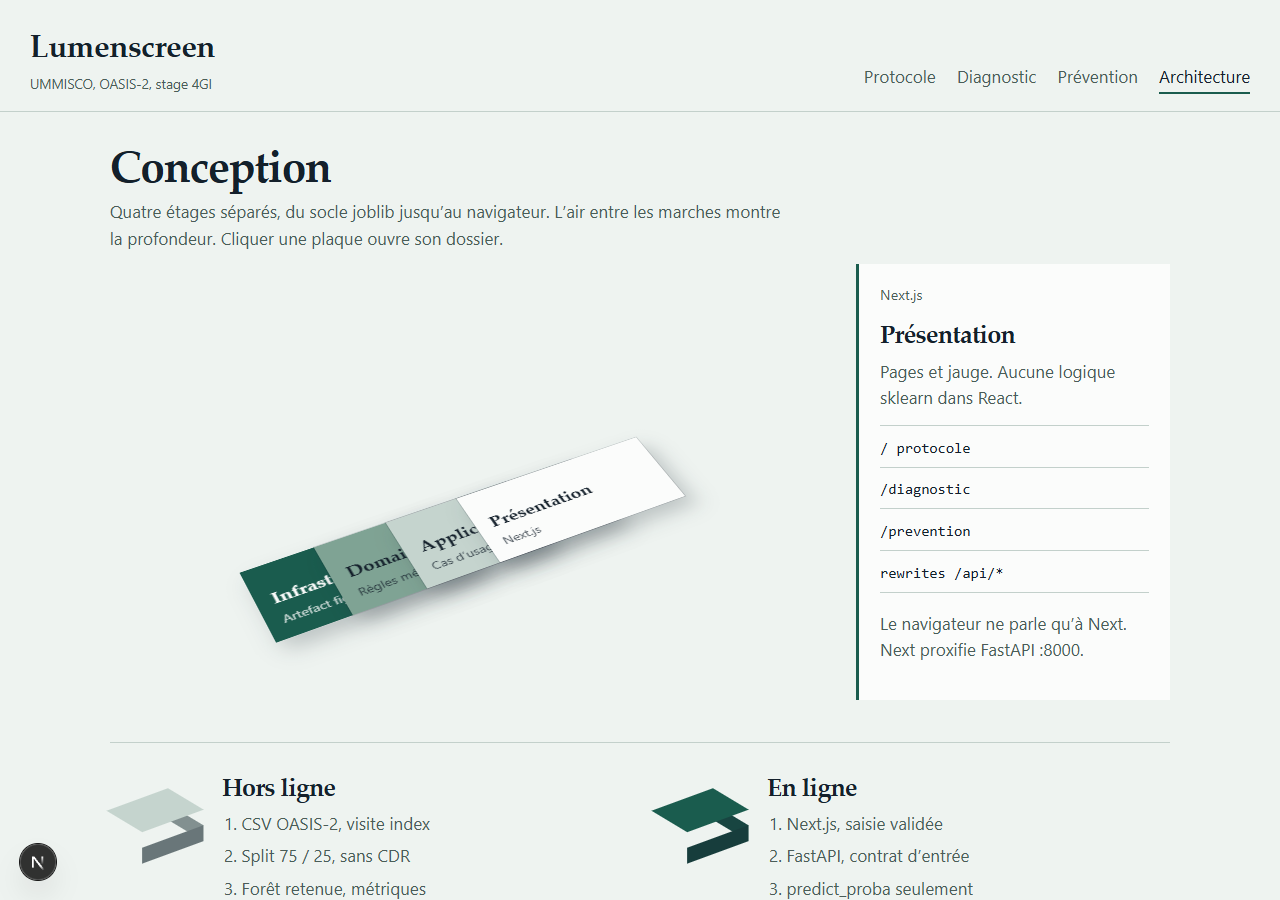
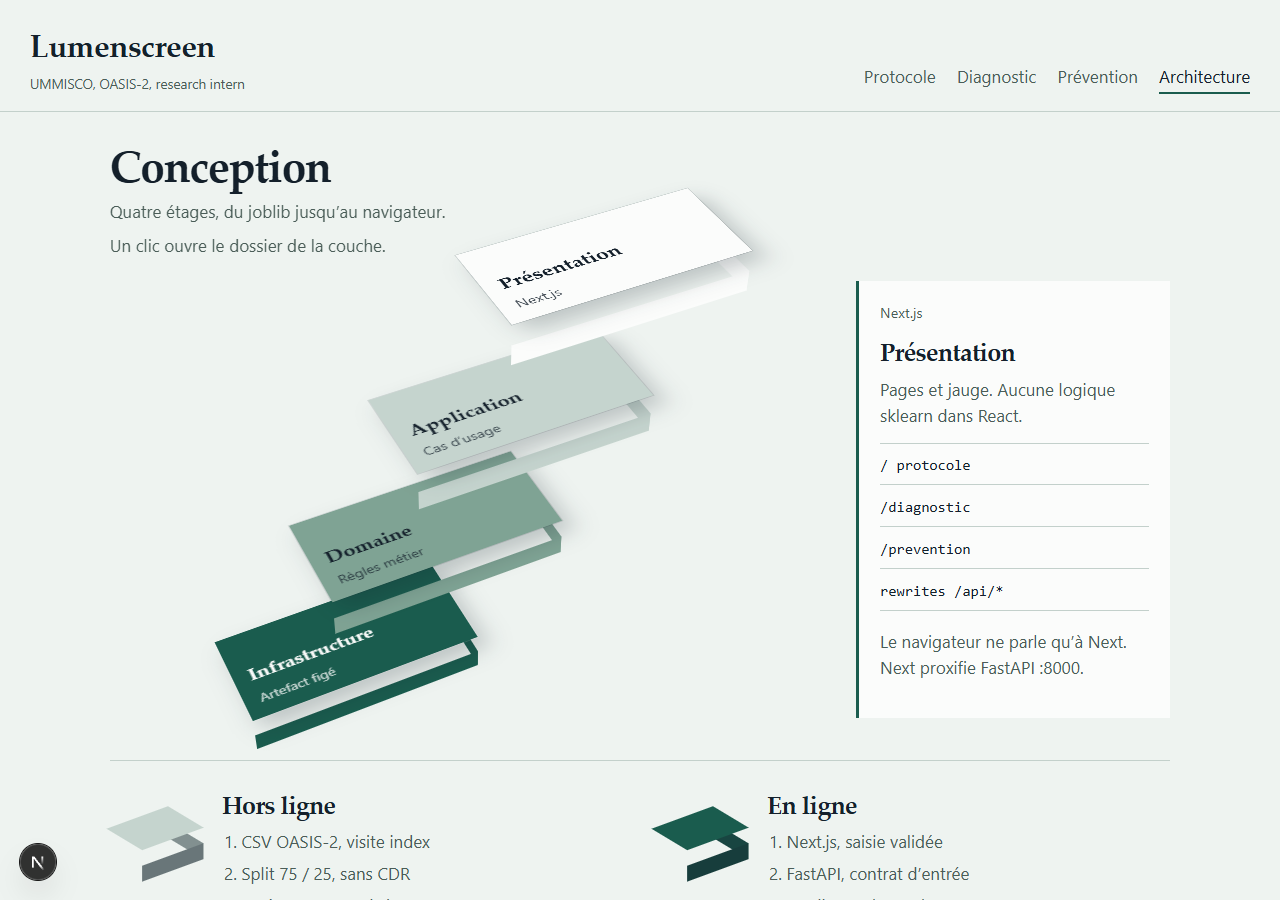
Update README with the validated 3D architecture capture.

diff --git a/lumenscreen-web/src/app/globals.css b/lumenscreen-web/src/app/globals.css
@@ -487,7 +487,7 @@ input[type="number"] {
 
 .arch__head {
   max-width: 40rem;
-  margin: 0 0 0.75rem;
+  margin: 0 0 1.35rem;
   text-align: left;
   position: relative;
   z-index: 2;
@@ -498,27 +498,32 @@ input[type="number"] {
   margin: 0;
 }
 
+.arch__head p + p {
+  margin-top: 0.45rem;
+}
+
 .arch3d {
   display: grid;
   grid-template-columns: minmax(0, 1fr) 18.5rem;
   gap: 1.25rem 1.75rem;
-  align-items: stretch;
+  align-items: start;
   margin: 0 0 2.5rem;
   position: relative;
   z-index: 1;
 }
 
 .scene {
-  --w: 12.5rem;
-  --h: 5.8rem;
-  --step-x: 4.6rem;
-  --step-z: 4.55rem;
+  --w: 13.6rem;
+  --h: 6.2rem;
+  --step-x: 5.1rem;
+  --step-z: 7.15rem;
+  --t: 1.25rem;
   width: 100%;
-  min-height: 18.5rem;
-  padding: 6.5rem 0 0.4rem;
+  min-height: 23rem;
+  padding: 6.5rem 0 0.6rem;
   display: flex;
   justify-content: center;
-  align-items: center;
+  align-items: flex-end;
   perspective: 1600px;
   perspective-origin: 50% 50%;
   overflow: visible;
@@ -532,11 +537,9 @@ input[type="number"] {
   transform-style: preserve-3d;
   transform-origin: 50% 50%;
   transform: rotateX(46deg) rotateZ(-26deg);
-  animation: stack-in 0.9s ease both;
 }
 
 .slab {
-  --t: 1.05rem;
   appearance: none;
   border: 0;
   padding: 0;
@@ -571,14 +574,14 @@ input[type="number"] {
   background: var(--face);
   transform: translateZ(var(--t));
   box-shadow:
-    0 0 0 1px color-mix(in srgb, var(--ink) 14%, transparent),
+    0 0 0 1px color-mix(in srgb, var(--ink) 12%, transparent),
     0.35rem 0.85rem 1.4rem rgba(20, 32, 43, 0.22);
   display: flex;
   flex-direction: column;
   justify-content: flex-end;
   align-items: flex-start;
   gap: 0.2rem;
-  padding: 0.75rem 0.95rem;
+  padding: 0.7rem 0.9rem;
   text-align: left;
 }
 
@@ -600,7 +603,7 @@ input[type="number"] {
   height: var(--h);
   right: 0;
   top: 0;
-  background: color-mix(in srgb, var(--face) 62%, #14202b);
+  background: var(--face);
   transform: rotateY(-90deg) translateZ(0);
   transform-origin: right center;
 }
@@ -610,7 +613,7 @@ input[type="number"] {
   height: var(--t);
   left: 0;
   bottom: 0;
-  background: color-mix(in srgb, var(--face) 48%, #14202b);
+  background: var(--face);
   transform: rotateX(90deg) translateZ(0);
   transform-origin: center bottom;
 }
@@ -789,12 +792,8 @@ code {
     gap: 1rem;
   }
 
-  .scene {
-    min-height: 16rem;
-  }
-
   .stack {
-    transform: rotateX(46deg) rotateZ(-26deg) scale(0.78);
+    transform: rotateX(46deg) rotateZ(-26deg) scale(0.82);
   }
 }
 

diff --git a/lumenscreen-web/src/app/architecture/page.tsx b/lumenscreen-web/src/app/architecture/page.tsx
@@ -8,11 +8,8 @@ export default function ArchitecturePage() {
     <article className="arch">
       <header className="arch__head">
         <h1>Conception</h1>
-        <p>
-          Quatre étages séparés, du socle joblib jusqu’au navigateur. L’air
-          entre les marches montre la profondeur. Cliquer une plaque ouvre son
-          dossier.
-        </p>
+        <p>Quatre étages, du joblib jusqu’au navigateur.</p>
+        <p>Un clic ouvre le dossier de la couche.</p>
       </header>
 
       <ArchitectureScene />
